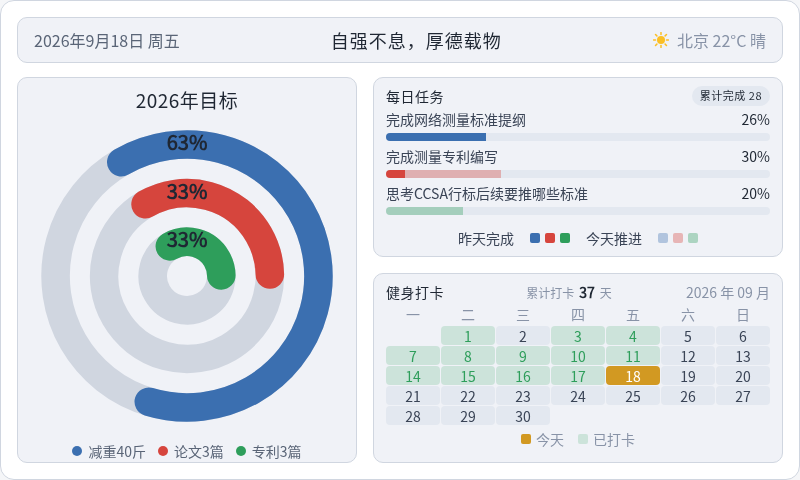
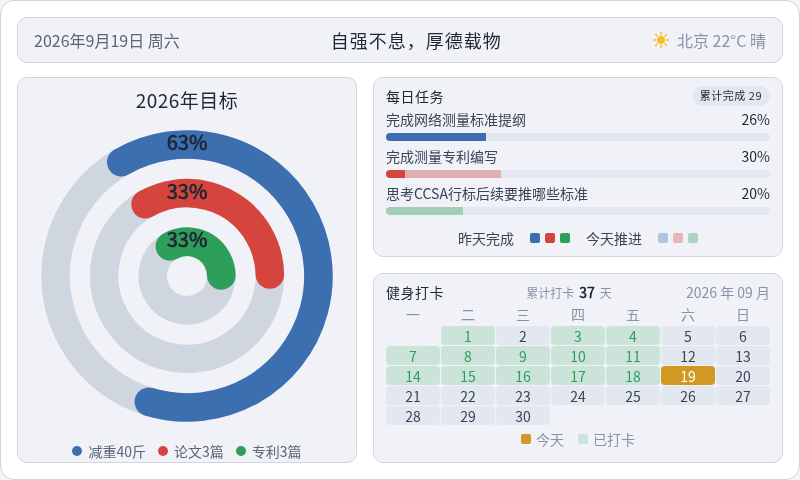
chore: 每日看板刷新 2026-09-19

Changed region(s): [[0.75, 0.75, 0.9062, 0.8125], [0.1875, 0.0625, 0.2188, 0.0938]]

diff --git a/output/dashboard/dashboard.html b/output/dashboard/dashboard.html
@@ -185,7 +185,7 @@
 <body>
   <div class="dash">
     <div class="topbar">
-      <div class="tb-date" id="tbDate">2026年9月18日 周五</div>
+      <div class="tb-date" id="tbDate">2026年9月19日 周六</div>
       <div class="tb-slogan">自强不息，厚德载物</div>
       <div class="tb-weather">
         <svg width="16" height="16" viewBox="0 0 16 16" aria-hidden="true"><circle cx="8" cy="8" r="4" fill="#fbbf24"/><g stroke="#fbbf24" stroke-width="1.5" stroke-linecap="round"><line x1="8" y1="0.5" x2="8" y2="2.5"/><line x1="8" y1="13.5" x2="8" y2="15.5"/><line x1="0.5" y1="8" x2="2.5" y2="8"/><line x1="13.5" y1="8" x2="15.5" y2="8"/><line x1="2.5" y1="2.5" x2="3.9" y2="3.9"/><line x1="12.1" y1="12.1" x2="13.5" y2="13.5"/><line x1="13.5" y1="2.5" x2="12.1" y2="3.9"/><line x1="3.9" y1="12.1" x2="2.5" y2="13.5"/></g></svg>
@@ -210,7 +210,7 @@
     </div>
     <div class="col-right">
       <div class="panel tasks-panel">
-        <div class="panel-title" style="color:#1f2733">每日任务<span class="task-done-count">累计完成  28</span></div>
+        <div class="panel-title" style="color:#1f2733">每日任务<span class="task-done-count">累计完成  29</span></div>
         <div class="task">
           <div class="task-head"><span style="color:#3a4456">完成网络测量标准提纲</span><span class="task-val" style="color:#1f2733">26%</span></div>
           <div class="bar">
@@ -248,7 +248,7 @@
           <span class="cal-date">2026 年 09 月</span>
         </div>
         <div class="cal-grid wk"><span>一</span><span>二</span><span>三</span><span>四</span><span>五</span><span>六</span><span>日</span></div>
-        <div class="cal-grid"><span class="cell empty"></span><span class="cell done" style="background:rgba(46,158,91,0.18);color:#2e9e5b">1</span><span class="cell" style="background:#e3e8f0;color:#3a4456">2</span><span class="cell done" style="background:rgba(46,158,91,0.18);color:#2e9e5b">3</span><span class="cell done" style="background:rgba(46,158,91,0.18);color:#2e9e5b">4</span><span class="cell" style="background:#e3e8f0;color:#3a4456">5</span><span class="cell" style="background:#e3e8f0;color:#3a4456">6</span><span class="cell done" style="background:rgba(46,158,91,0.18);color:#2e9e5b">7</span><span class="cell done" style="background:rgba(46,158,91,0.18);color:#2e9e5b">8</span><span class="cell done" style="background:rgba(46,158,91,0.18);color:#2e9e5b">9</span><span class="cell done" style="background:rgba(46,158,91,0.18);color:#2e9e5b">10</span><span class="cell done" style="background:rgba(46,158,91,0.18);color:#2e9e5b">11</span><span class="cell" style="background:#e3e8f0;color:#3a4456">12</span><span class="cell" style="background:#e3e8f0;color:#3a4456">13</span><span class="cell done" style="background:rgba(46,158,91,0.18);color:#2e9e5b">14</span><span class="cell done" style="background:rgba(46,158,91,0.18);color:#2e9e5b">15</span><span class="cell done" style="background:rgba(46,158,91,0.18);color:#2e9e5b">16</span><span class="cell done" style="background:rgba(46,158,91,0.18);color:#2e9e5b">17</span><span class="cell today" style="background:#d29922;color:#ffffff">18</span><span class="cell" style="background:#e3e8f0;color:#3a4456">19</span><span class="cell" style="background:#e3e8f0;color:#3a4456">20</span><span class="cell" style="background:#e3e8f0;color:#3a4456">21</span><span class="cell" style="background:#e3e8f0;color:#3a4456">22</span><span class="cell" style="background:#e3e8f0;color:#3a4456">23</span><span class="cell" style="background:#e3e8f0;color:#3a4456">24</span><span class="cell" style="background:#e3e8f0;color:#3a4456">25</span><span class="cell" style="background:#e3e8f0;color:#3a4456">26</span><span class="cell" style="background:#e3e8f0;color:#3a4456">27</span><span class="cell" style="background:#e3e8f0;color:#3a4456">28</span><span class="cell" style="background:#e3e8f0;color:#3a4456">29</span><span class="cell" style="background:#e3e8f0;color:#3a4456">30</span></div>
+        <div class="cal-grid"><span class="cell empty"></span><span class="cell done" style="background:rgba(46,158,91,0.18);color:#2e9e5b">1</span><span class="cell" style="background:#e3e8f0;color:#3a4456">2</span><span class="cell done" style="background:rgba(46,158,91,0.18);color:#2e9e5b">3</span><span class="cell done" style="background:rgba(46,158,91,0.18);color:#2e9e5b">4</span><span class="cell" style="background:#e3e8f0;color:#3a4456">5</span><span class="cell" style="background:#e3e8f0;color:#3a4456">6</span><span class="cell done" style="background:rgba(46,158,91,0.18);color:#2e9e5b">7</span><span class="cell done" style="background:rgba(46,158,91,0.18);color:#2e9e5b">8</span><span class="cell done" style="background:rgba(46,158,91,0.18);color:#2e9e5b">9</span><span class="cell done" style="background:rgba(46,158,91,0.18);color:#2e9e5b">10</span><span class="cell done" style="background:rgba(46,158,91,0.18);color:#2e9e5b">11</span><span class="cell" style="background:#e3e8f0;color:#3a4456">12</span><span class="cell" style="background:#e3e8f0;color:#3a4456">13</span><span class="cell done" style="background:rgba(46,158,91,0.18);color:#2e9e5b">14</span><span class="cell done" style="background:rgba(46,158,91,0.18);color:#2e9e5b">15</span><span class="cell done" style="background:rgba(46,158,91,0.18);color:#2e9e5b">16</span><span class="cell done" style="background:rgba(46,158,91,0.18);color:#2e9e5b">17</span><span class="cell done" style="background:rgba(46,158,91,0.18);color:#2e9e5b">18</span><span class="cell today" style="background:#d29922;color:#ffffff">19</span><span class="cell" style="background:#e3e8f0;color:#3a4456">20</span><span class="cell" style="background:#e3e8f0;color:#3a4456">21</span><span class="cell" style="background:#e3e8f0;color:#3a4456">22</span><span class="cell" style="background:#e3e8f0;color:#3a4456">23</span><span class="cell" style="background:#e3e8f0;color:#3a4456">24</span><span class="cell" style="background:#e3e8f0;color:#3a4456">25</span><span class="cell" style="background:#e3e8f0;color:#3a4456">26</span><span class="cell" style="background:#e3e8f0;color:#3a4456">27</span><span class="cell" style="background:#e3e8f0;color:#3a4456">28</span><span class="cell" style="background:#e3e8f0;color:#3a4456">29</span><span class="cell" style="background:#e3e8f0;color:#3a4456">30</span></div>
         <div class="cal-legend">
           <span style="color:#8893a7"><i class="sw" style="background:#d29922"></i>今天</span>
           <span style="color:#8893a7"><i class="sw" style="background:rgba(46,158,91,0.18)"></i>已打卡</span>
